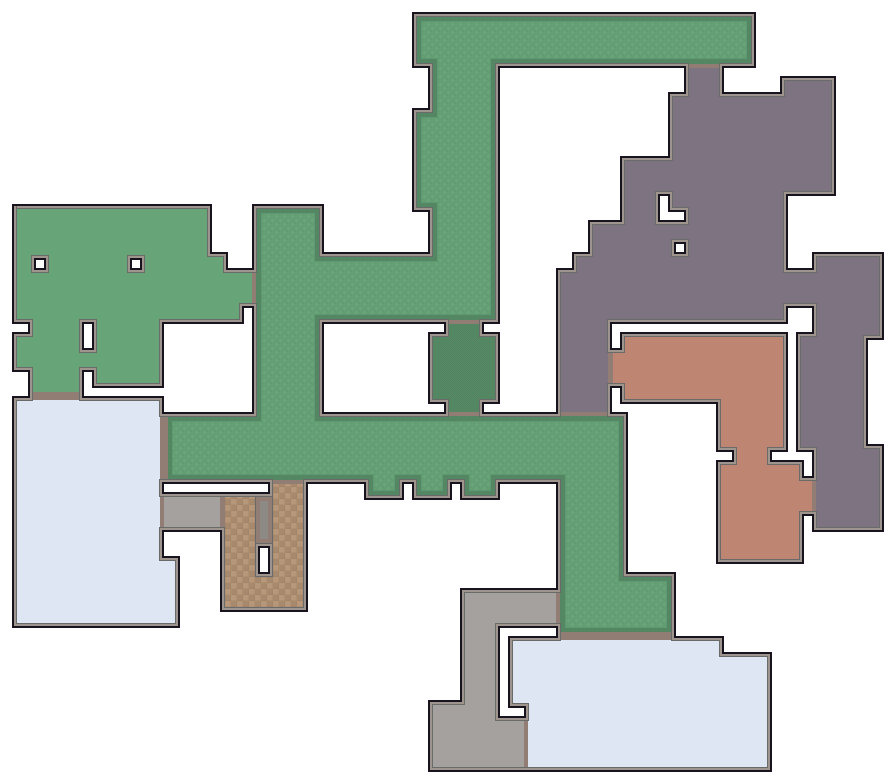
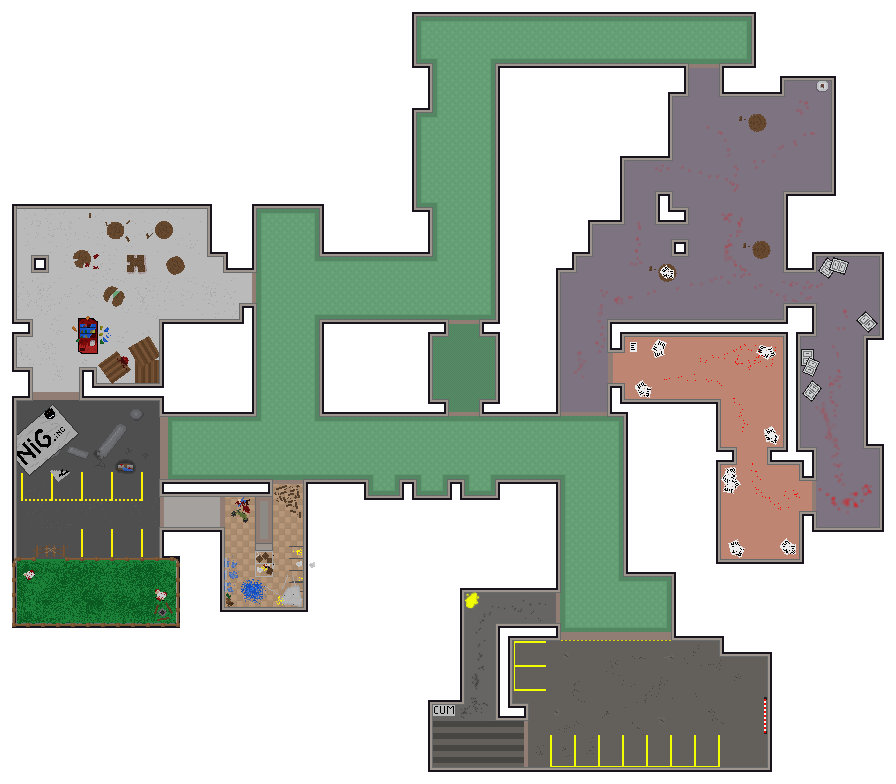
new map

diff --git a/client/src/components/Game/Scene.tsx b/client/src/components/Game/Scene.tsx
@@ -1,21 +1,20 @@
 import { Stars } from "@react-three/drei";
-import { useFrame, useThree } from "@react-three/fiber";
+import { useThree } from "@react-three/fiber";
 import { Physics } from "@react-three/rapier";
 import { useContext, useEffect, useRef, useState } from "react";
 import { Texture, TextureLoader, Vector3 } from "three";
 import { ServerContext, StoreContext } from "../../App";
-import { TBullet, TDestructible, TPlayer } from "../../modules/Server/types";
+import { TBullet, TPlayer } from "../../modules/Server/types";
+import Bullet from "./Bullet/Bullet";
 import CollidersPositions from "./Map/CollidersPositions";
 import LightMap from "./Map/LightMap";
 import Map from "./Map/Map";
 import MapObjects from "./Map/MapObjects";
 import Obstacle from "./Map/Obstacle";
-import Player from "./Player/Player";
-import Bullet from "./Bullet/Bullet";
 import Dummy from "./Player/Dummy";
-import Game from "../../modules/Game/Game";
+import Player from "./Player/Player";
 
-interface ITextureObject {
+export interface ITextureObject {
     [key: string]: Texture
 }
 
@@ -30,13 +29,11 @@ const Scene = () => {
 
     const textureLoader = new TextureLoader();
     const TPROJECTILE = textureLoader.load('./assets/Bullets/Projectile.png');
-    const room = textureLoader.load('./assets/rooms/map-office-plain.png');
-    const glass = textureLoader.load('./assets/Map parts/Glass.png');
+    const room = textureLoader.load('./assets/rooms/cyborgs-office.png');
 
     const [textures] = useState<ITextureObject>({
         'room': room,
         'bullet': TPROJECTILE,
-        'glass': glass,
     });
 
     const timer = useRef<number>(0);
@@ -135,8 +132,7 @@ const Scene = () => {
 
     return (
         <group>
-            <Physics gravity={[0, 0, 0]} colliders="hull">
-                <LightMap />
+            <Physics gravity={[0, 0, 0]} colliders="hull" debug>
 
                 {/* {player.current && <Debug player={player.current} debugRef={debugRef} />} */}
 
@@ -158,13 +154,6 @@ const Scene = () => {
                     }
                 })}
 
-                {colliders.map(collider =>
-                    <Obstacle
-                        key={generateColliderKey()}
-                        {...collider}
-                    />
-                )}
-
                 {bullets.map(bullet =>
                     <Bullet
                         {...bullet}
@@ -181,11 +170,8 @@ const Scene = () => {
                     />
                 )}
 
-                <group scale={[81, 61, 1]} position={[0, 0, 0]}>
-                    <Map texture={textures['room']} />
-                </group>
+                <Map texture={textures['room']} />
 
-                <MapObjects textures={textures['glass']} position={new Vector3(0, 0, 0.1)} />
             </Physics>
             <Stars />
         </group>

diff --git a/client/src/components/Game/Map/Map.tsx b/client/src/components/Game/Map/Map.tsx
@@ -1,14 +1,44 @@
-import { Texture } from "three";
+import { useRef } from "react";
+import { Texture, TextureLoader, Vector3 } from "three";
+import { ITextureObject } from "../Scene";
 import MakeSprite from "../Sprites/MakeSprite";
+import CollidersPositions from "./CollidersPositions";
+import LightMap from "./LightMap";
+import MapObjects from "./MapObjects";
+import Obstacle from "./Obstacle";
 
 interface IMapProps {
     texture: Texture;
 }
 
 const Map = ({ texture }: IMapProps) => {
+    const textureLoader = new TextureLoader();
+    const glass = textureLoader.load('./assets/Map parts/Glass.png');
+    const glassTexture = useRef<ITextureObject>({
+        "glass": glass
+    })
+
+    const colliders = CollidersPositions();
+    let colliderKeyCounter = 0;
+    const generateColliderKey = () => {
+        const key = `collider-${colliderKeyCounter}`;
+        colliderKeyCounter++;
+        return key;
+    };
+
     return (
         <group>
-            <MakeSprite texture={texture} />
+            <group scale={[56, 49, 1]} position={[4.5, 6, 0]}>
+                <MakeSprite texture={texture} />
+            </group>
+            <MapObjects textures={glassTexture.current.glass} position={new Vector3()} />
+            <LightMap />
+            {colliders.map(collider =>
+                    <Obstacle
+                        key={generateColliderKey()}
+                        {...collider}
+                    />
+                )}
         </group>
     );
 }
